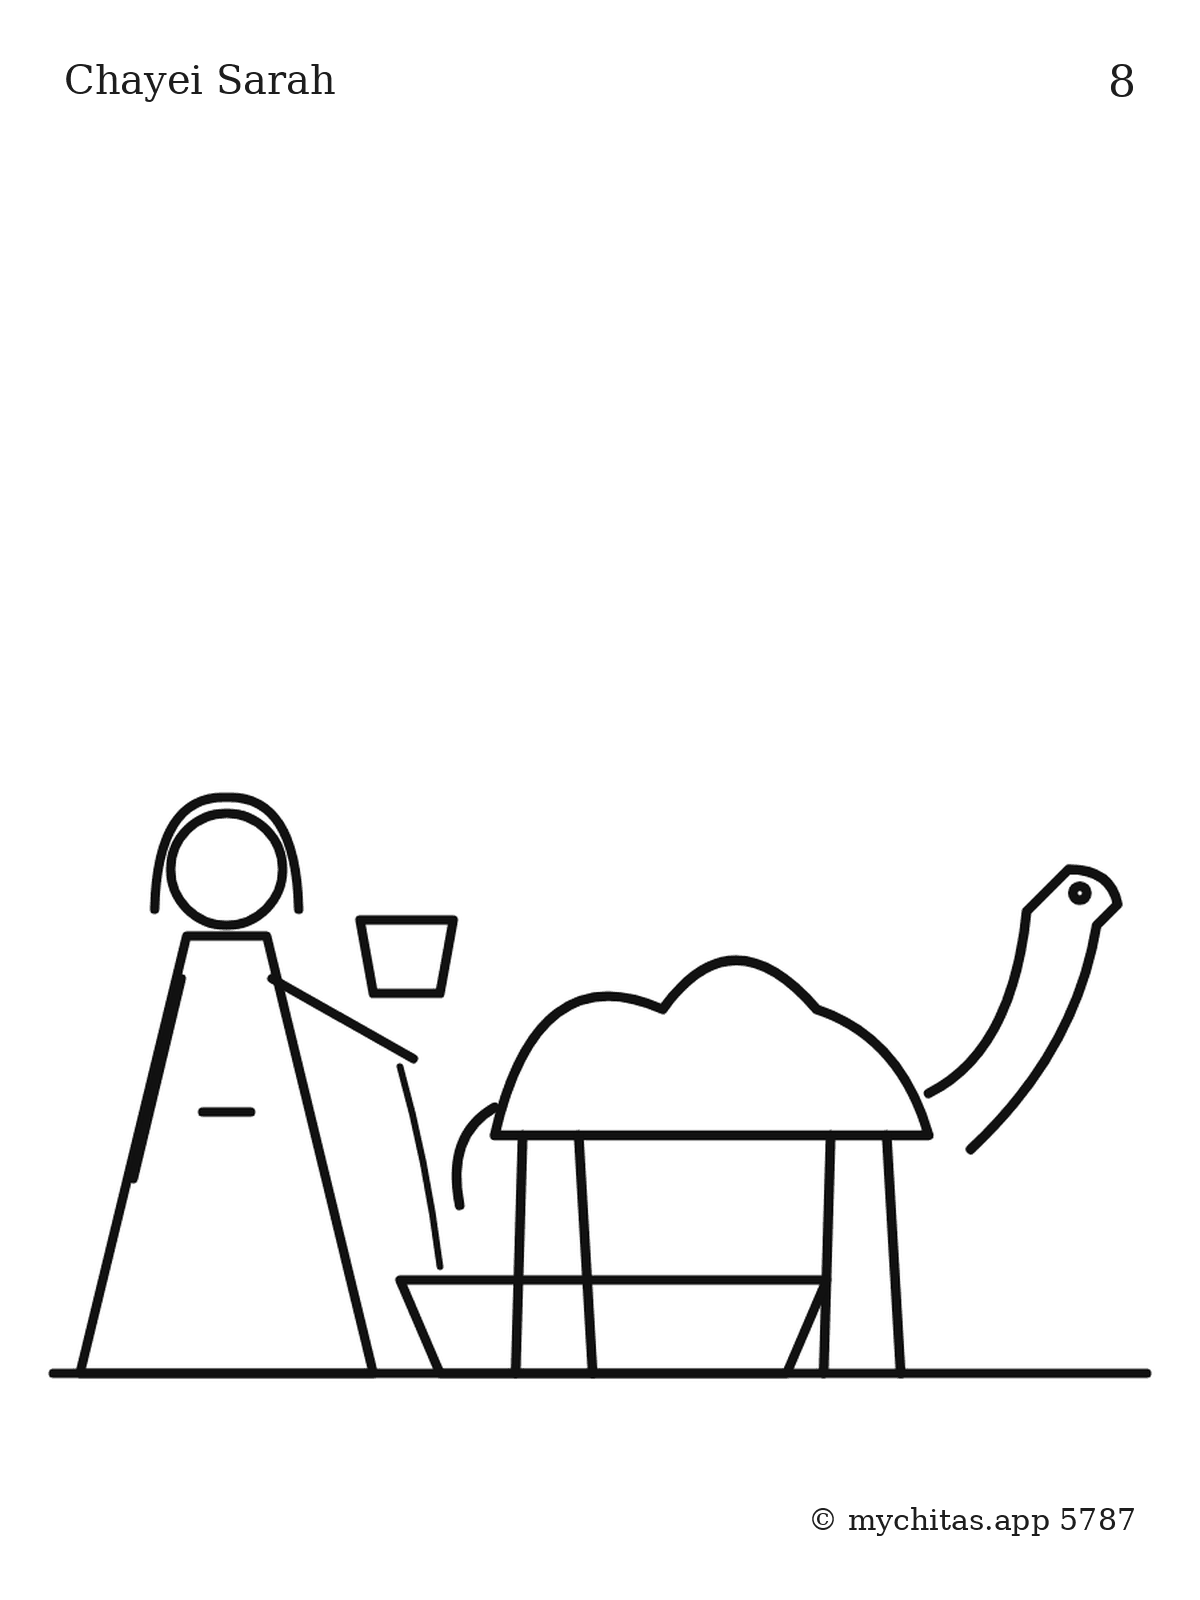
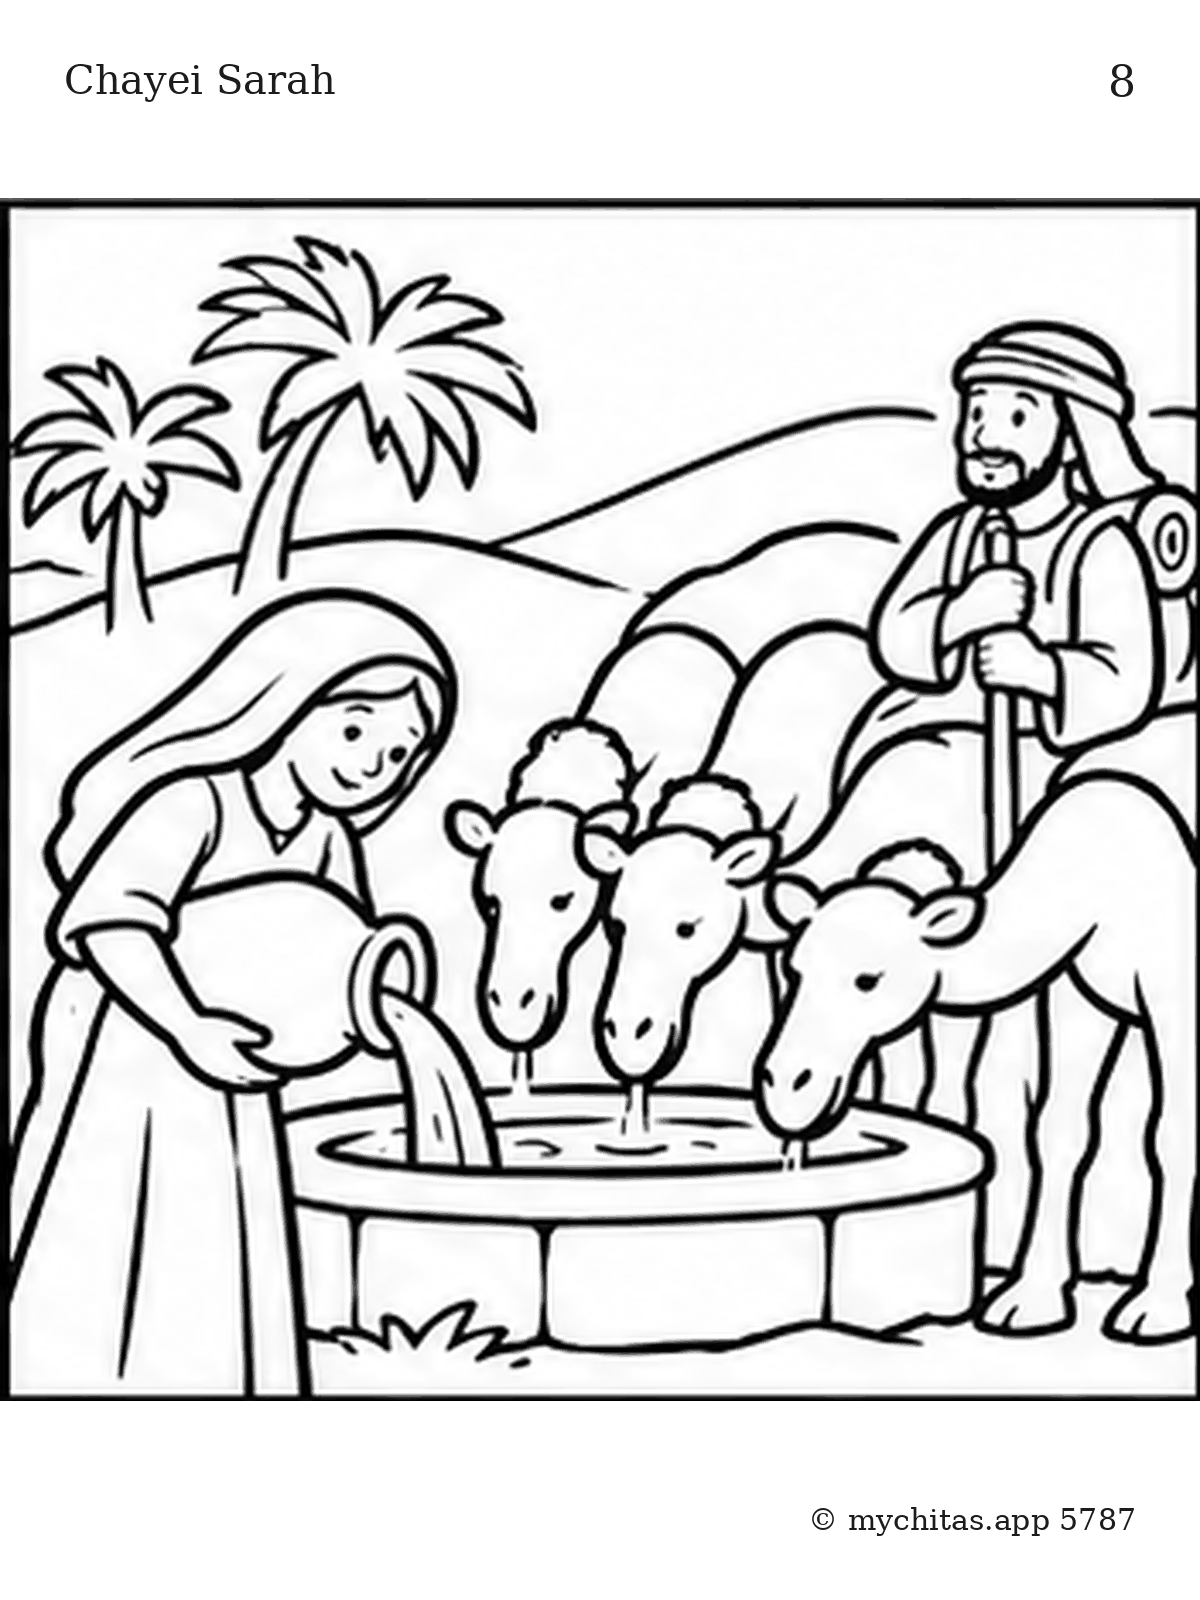
Memo «Хаей Сара»: раскраски генератора (лист 4×3) вместо временных
Claude-Session: https://claude.ai/code/session_01QUacuE9sqJBHQ2764pSih9

Changed region(s): [[0.0, 0.125, 1.0, 0.875]]

diff --git a/CLAUDE.md b/CLAUDE.md
@@ -163,7 +163,7 @@
 - Memo-игра урока-комментария: данные `src/lessons/NN-slug/memo.ts` (12 пар: слова Торы, цитата, гематрии, буквы),
   тексты — `memo` в `i18n/<язык>.ts`; картинки-раскраски `memo/NN.png` (3:4; размер и подписи ставит
   `python3 scripts/memo-frame.py`); можно и цветной набор для экрана — `memo/color/NN.webp` (`memo-frame.py --color`):
-  на сайте — он, в печати — всегда раскраски (`memoImages(lesson, true)`); Memo «Лех леха» — так; Memo «Вайера» (`09-baal-haturim-vayera`) — раскраски генератора (лист 4×3, 28.10.2026), цветного набора пока нет; Memo «Хаей Сара» (`11-baal-haturim-chayei-sarah`, урок №7, 31.10.2026) — **временные простые раскраски, нарисованные кодом** (SVG-контуры → `memo-frame.py`), заменить картинками генератора; страница `#/<slug>/memo` (`MemoPage.tsx`, `Memo.tsx`), печать `#/<slug>/print/memo`
+  на сайте — он, в печати — всегда раскраски (`memoImages(lesson, true)`); Memo «Лех леха» — так; Memo «Вайера» (`09-baal-haturim-vayera`) — раскраски генератора (лист 4×3, 28.10.2026), цветного набора пока нет; Memo «Хаей Сара» (`11-baal-haturim-chayei-sarah`, урок №7) — раскраски генератора (лист 4×3, 03.11.2026; до этого — временные, нарисованные кодом), цветного набора пока нет; страница `#/<slug>/memo` (`MemoPage.tsx`, `Memo.tsx`), печать `#/<slug>/print/memo`
   (`PrintMemo.tsx`: два одинаковых комплекта картинок, 3 в ряд на всю ширину, без пустых мест — карточки сразу под текстом; пара на бумаге = две одинаковые картинки, номер объяснения в углу). Числа, буквенные намёки и тексты на всех языках проверяет `npm run check`.
 - Кнопка ✦ — ИИ-чат (`Assistant.tsx`), **ИИ-учитель академии**: системная инструкция — `SYSTEM` в `assistant/src/index.ts`
   (три раздела, учителя, сертификаты, «подсказывай, не раскрывай»). Что на экране, он получает в `<page_context>`:
